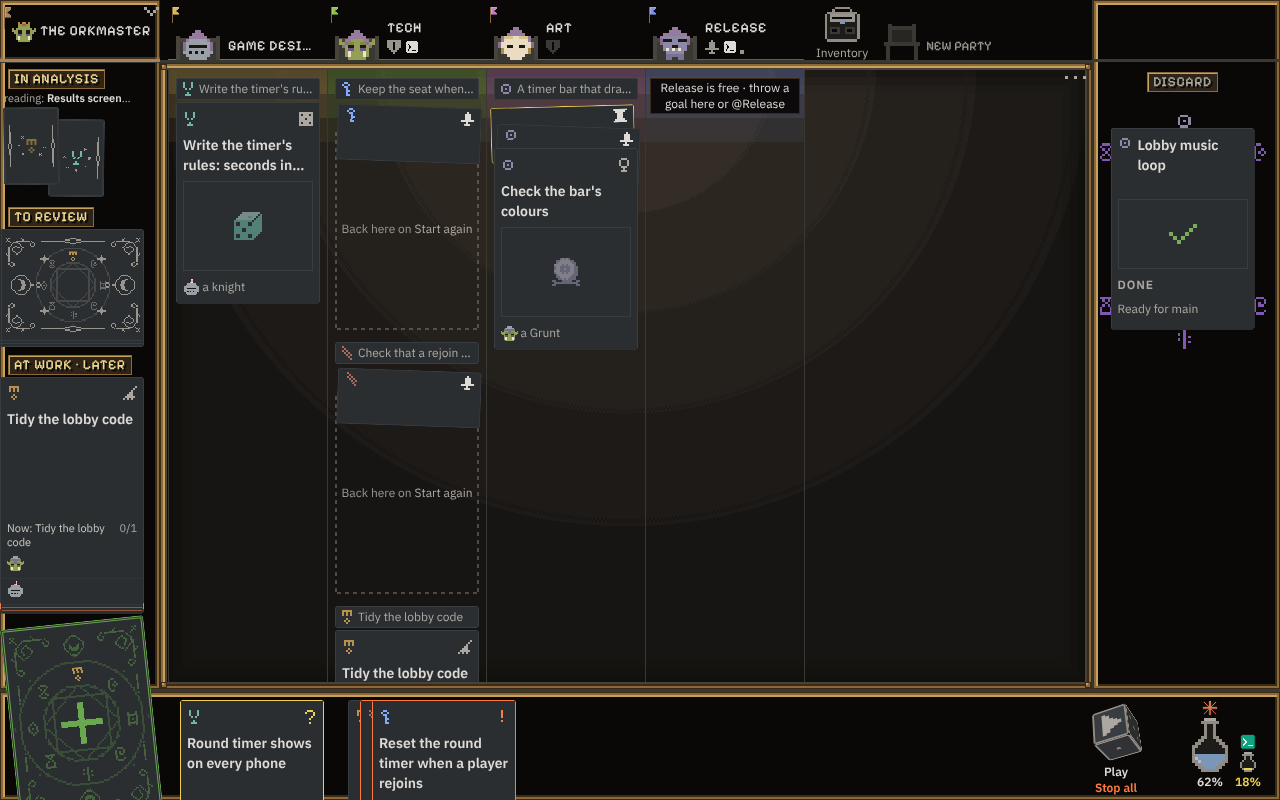
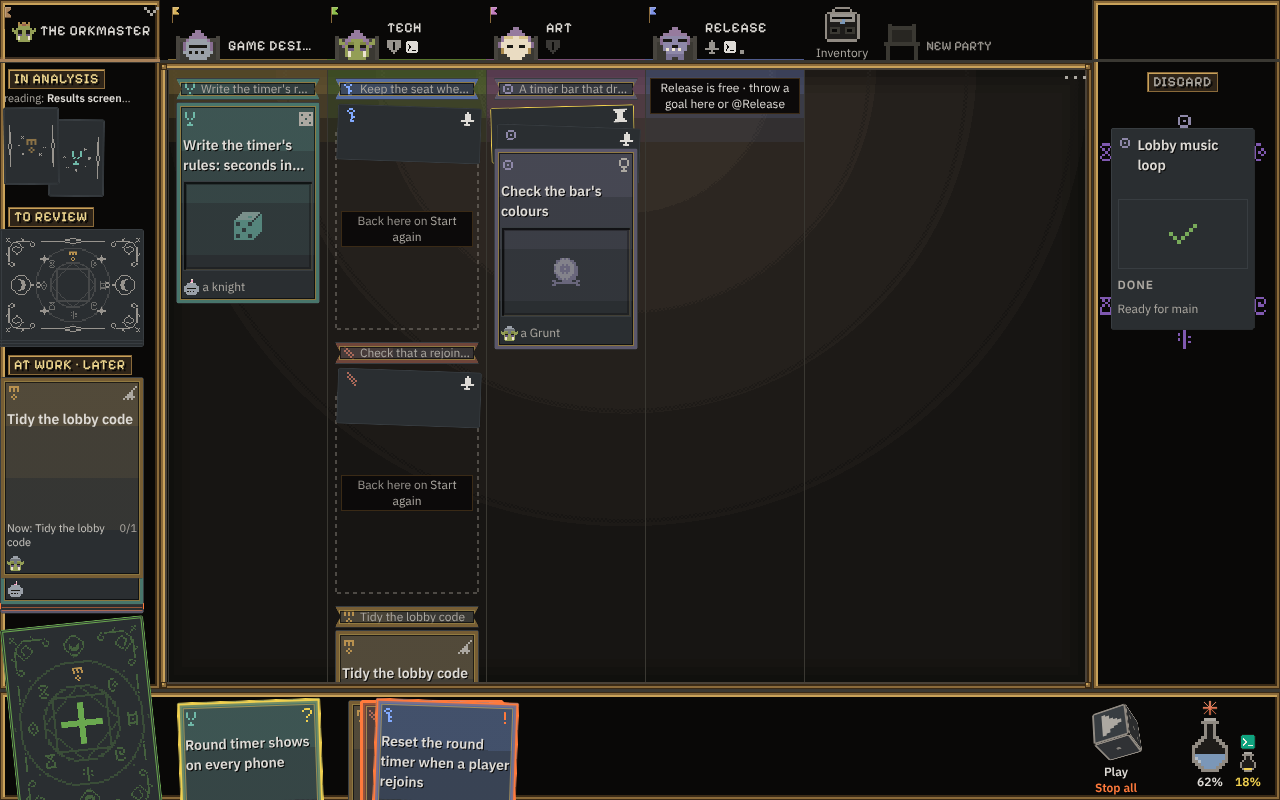
Spec 160 E: the System map's labels and the empty slots' words lie on flat plates
Claude-Session: https://claude.ai/code/session_01MCU3dpbKvLjgD4LJ6vm5TH

diff --git a/orkboard/gui/static/js/arena/systemarch.js b/orkboard/gui/static/js/arena/systemarch.js
@@ -100,14 +100,14 @@ function arrowsOf(host, links, scale = 1) {
 function Head({ c }) {
   const ways = c.ways_in || [];
   return html`<header class="arch-head">
-    <span class="arena-member__nm arch-name" title=${c.path === "." ? c.name : c.path}>${c.name}</span>
+    <span class="arena-member__nm arch-name ork-plate" title=${c.path === "." ? c.name : c.path}>${c.name}</span>
     <span class="arch-rule" aria-hidden="true"></span>
     ${((c.stack || []).length > 0 || c.unknown > 0) && html`<ul class="arch-stack" aria-label=${`${c.name}: its stack`}>
       ${(c.stack || []).map((s) => html`<li key=${s.name} class="arch-lib" data-role=${s.role} title=${`${s.name} · ${s.role}`}><span class="arch-lib__nm">${s.name}</span><span class="arch-lib__role">${s.role}</span></li>`)}
       ${c.unknown > 0 && html`<li class="arch-lib is-more" title=${`${c.unknown} more not on the list of known libraries`}><span class="arch-lib__nm">${moreWords(c.unknown)}</span></li>`}
     </ul>`}
-    ${ways.length > 0 && html`<div class="arch-ways"><span class="arch-ways__h">${WAYS_IN}</span>
-      <ul class="arch-ways__list">${ways.map((w, i) => html`<li key=${i} class="arch-way" data-kind=${w.kind} title=${w.path || w.name}><${Icon} name="arrow-right" />
+    ${ways.length > 0 && html`<div class="arch-ways"><span class="arch-ways__h ork-plate">${WAYS_IN}</span>
+      <ul class="arch-ways__list">${ways.map((w, i) => html`<li key=${i} class="arch-way ork-plate" data-kind=${w.kind} title=${w.path || w.name}><${Icon} name="arrow-right" />
         <b>${WAY_WORDS[w.kind] || w.kind}</b> <span class="arch-way__what">${w.kind === "script" || w.kind === "bin" ? w.name || base(w.path) : base(w.path)}</span></li>`)}</ul></div>`}
   </header>`;
 }
@@ -153,14 +153,14 @@ export function Architecture({ doc, order, step, pick, party }) {
         <div class="arch-lanes" style=${`height:${links.length * LANE + 8}px`} aria-hidden="true"></div>
         <div class="arch-cols">
           ${cols.map((col) => (col.kind === "shared" ? html`<section key=${`shared:${col.serves.join(",")}`} class="arch-col arch-shared" data-shared=${col.serves.join(",")} aria-label=${SHARED}>
-              <header class="arch-head"><span class="arena-member__nm arch-name">${SHARED}</span><span class="arch-rule" aria-hidden="true"></span>
-                <span class="arena-cap arch-serves">${col.serves.map((p) => names[p] || p).join(" · ")}</span></header>
+              <header class="arch-head"><span class="arena-member__nm arch-name ork-plate">${SHARED}</span><span class="arch-rule" aria-hidden="true"></span>
+                <span class="arena-cap arch-serves ork-plate">${col.serves.map((p) => names[p] || p).join(" · ")}</span></header>
               <div class="arch-layer__parts">${col.parts.map((p) => card(p, SHARED))}</div>
             </section>`
             : html`<section key=${col.c.path} class=${cls("arch-col", { "is-bare": !col.rows.length })} data-container=${col.c.path} aria-label=${col.c.name}>
               <${Head} c=${col.c} />
               ${col.rows.length > 0 && html`<div class="arch-layers">${col.rows.map((r, i) => html`<div key=${i} class=${cls("arch-layer", { "is-gone": !!r.gone })} data-role=${r.role || undefined}>
-                <span class="arch-layer__nm">${ROLE_WORDS[r.role] || ""}</span>
+                <span class="arch-layer__nm ork-plate">${ROLE_WORDS[r.role] || ""}</span>
                 <div class="arch-layer__parts">${r.parts.map((p) => card(p, col.c.name))}</div></div>`)}</div>`}
             </section>`))}
         </div>

diff --git a/orkboard/gui/static/js/arena/systemmap.css b/orkboard/gui/static/js/arena/systemmap.css
@@ -94,7 +94,7 @@
 .arch-col { flex: none; display: flex; flex-direction: column; gap: var(--ork-6); min-width: 208px; }
 .arch-col.is-bare { min-width: 160px; }
 .arch-head { display: flex; flex-direction: column; gap: var(--ork-3); }
-.arch-name { max-width: 100%; text-align: center; color: var(--ork-ink); }
+.arch-name { align-self: center; max-width: 100%; text-align: center; color: var(--ork-ink); }   /* a label on orkUI's flat plate (§275.2), not on the felt's steps */
 .arch-rule { height: 2px; margin-top: calc(-1 * var(--ork-2)); background: var(--ork-edge); }
 .arch-stack, .arch-ways { width: 0; min-width: 100%; }
 /* the column is as wide as its rows (208 px at least): the stack and the ways in wrap inside it */
@@ -106,6 +106,7 @@
 .arch-lib.is-more { justify-content: center; border-style: dashed; background: none; }
 .arch-lib.is-more .arch-lib__nm { font-weight: 400; color: var(--ork-ink-muted); }
 .arch-ways { display: flex; flex-direction: column; gap: var(--ork-1); }
+.arch-ways__h { align-self: flex-start; }
 .arch-ways__h, .arch-layer__nm { font: var(--ork-type-label); text-transform: var(--ork-type-label-case); letter-spacing: var(--ork-type-label-track); color: var(--ork-ink-muted); }
 .arch-ways__list { list-style: none; margin: 0; padding: 0; display: flex; flex-wrap: wrap; gap: var(--ork-1) var(--ork-4); font: var(--ork-type-caption); color: var(--ork-ink); }
 .arch-way { display: inline-flex; align-items: center; gap: var(--ork-1); white-space: nowrap; }
@@ -114,11 +115,11 @@
 .arch-way__what { color: var(--ork-ink-muted); }
 .arch-layers { display: flex; flex-direction: column; gap: var(--ork-6); }
 .arch-layer { display: flex; align-items: flex-start; gap: var(--ork-4); }
-.arch-layer__nm { flex: none; width: 76px; padding-top: var(--ork-2); }
+.arch-layer__nm { flex: none; width: 76px; margin-top: var(--ork-2); padding: var(--ork-1) var(--ork-2); }
 .arch-layer__parts { display: flex; flex-wrap: wrap; gap: var(--ork-6) var(--ork-5); max-width: calc(3 * 128px + 2 * var(--ork-5)); }
 .arch-shared { min-width: 128px; }
 .arch-shared .arch-layer__parts { flex-direction: column; align-items: center; }
-.arch-serves { text-align: center; }
+.arch-serves { align-self: center; text-align: center; }
 .arch .sys-stk { flex: none; }
 .arch.is-small .sys-stk { width: 96px; max-width: 96px; }
 /* a crowded table: the smaller card, 96 × 134 (5:7) */

diff --git a/orkboard/gui/static/js/table/flight.css b/orkboard/gui/static/js/table/flight.css
@@ -1,6 +1,7 @@
 /* A failure thrown to the hand leaves its place in the lane (docs/specs/128 C.2, decisions §206.7; table/flight.js `ThrownPlace`): orkUI's `.ork-card-place` (the card's outline in dashes, 5 : 7) as wide as the card was and as high (the page sets
    the height it measured), its words in the caption's face, *Try again* the quieter ink's. Layout only: every colour, face and corner is orkUI's. */
 .table-thrown { display: grid; place-items: center; width: 100%; flex: none; padding: var(--ork-3); color: var(--ork-ink-faint); font: var(--ork-type-caption); text-align: center; }
+.table-thrown__words { color: var(--ork-ink-faint); }   /* on orkUI's flat plate (§275.2) */
 .table-thrown i { font-style: normal; color: var(--ork-ink-muted); }
 
 /* A card that turns on its way (turnfly.js; spec 147 D.2 and E, decisions §251.7, §70): orkUI's `.ork-turn` laid at the box where the card lands, its back the Orkmaster's hand's back (the small seal and the goal's rune in the middle, column.css `.col-fan__seal`), its face a copy of the card.

diff --git a/orkboard/gui/static/js/arena/systemmap.js b/orkboard/gui/static/js/arena/systemmap.js
@@ -358,7 +358,7 @@ export function Modules({ doc, order, step, pick, party }) {
     <div class="sys-scroll">
       <div class="sys-table" ref=${host} style=${`--cols:repeat(${cols.length}, 128px)`} data-rows=${rows}>
         ${cols.map(({ col, ci }) => html`<div key=${`h${ci}`} class="sys-area" style=${`grid-column:${ci + 1}`} data-area=${col.name}>
-          <span class="arena-member__nm sys-area__nm" title=${col.name}>${col.name}</span>
+          <span class="arena-member__nm sys-area__nm ork-plate" title=${col.name}>${col.name}</span>
           ${col.stack.length > 0 && opened.has(ci) && html`<button type="button" class="ork-btn quiet sys-area__fold" aria-expanded="true" onClick=${() => toggle(ci)}><${Chev} dir="up" /> ×${col.stack.length}</button>`}
           <span class="sys-area__rule" aria-hidden="true"></span></div>`)}
         ${cols.flatMap(({ col, ci, cards }) => cards.map(({ c, slot, many }) => {

diff --git a/orkboard/gui/static/js/table/flight.js b/orkboard/gui/static/js/table/flight.js
@@ -116,5 +116,5 @@ export function useThrown(stops, ready = true) {
 /** A lane's place for a failure that lies in the hand: orkUI's card outline where the card lay, its height kept, *Back here on Try again*. */
 export function ThrownPlace({ n, t, h = 0 }) {
   return html`<div class="ork-card-place table-thrown" data-goal=${n.slug} data-task=${t.id} data-about=${`idea:${n.slug} task:${n.slug}/${t.id}`} data-place="thrown" style=${h ? `height:${h}px` : undefined} aria-label=${`${t.title}: back here when you try again`}>
-    <span>Back here on <i>Start again</i></span></div>`;
+    <span class="table-thrown__words ork-plate">Back here on <i>Start again</i></span></div>`;
 }

diff --git a/tests/test_table_look_browser.py b/tests/test_table_look_browser.py
@@ -100,3 +100,48 @@ def test_the_headings_are_plaques_and_an_empty_lane_says_whose_it_is_on_a_plate(
     lane = pg.locator(".table-lane[data-free], .table-lane:has(.table-lane__free)").first
     assert lane.get_attribute("data-race") in {"ork", "knight", "elf", "undead", "goblin", "gnome"}
     shot(pg, "orkmaster")
+
+
+PLATES = ("--ork-plate", *[f"--ork-plate-{r}" for r in ("ork", "knight", "elf", "undead", "goblin", "gnome", "orkmaster")])
+LABELS = ".arch-name, .arch-layer__nm, .arch-ways__h, .arch-way, .arch-serves, .sys-area__nm"
+
+
+def test_on_techs_tab_every_label_of_the_system_map_lies_on_a_flat_plate(gui):
+    pg = open_window(gui)
+    pg.locator('.table-tab[data-tab="tech"]').click()
+    pg.locator(".arch-name").first.wait_for(timeout=WAIT_MS)
+    pg.wait_for_timeout(800)
+    plates = [pg.evaluate(BG, n) for n in PLATES]
+    labels = pg.locator(LABELS)
+    seen = set()
+    for i in range(labels.count()):
+        el = labels.nth(i)
+        if not el.is_visible():
+            continue
+        text = el.inner_text().strip()
+        bg = el.evaluate("(e) => getComputedStyle(e).backgroundColor")
+        assert bg not in ("rgba(0, 0, 0, 0)", "transparent") and bg in plates, (text, bg)
+        seen.add(text.lower())
+    assert {"its doors", "its face", "its data"} <= seen, seen
+    assert any(n.endswith("/") for n in seen), seen                      # the containers' names (server/, client/)
+    shot(pg, "tech-system")
+
+
+def test_an_empty_slot_a_failure_leaves_has_its_words_on_a_flat_plate(gui):
+    from tests.test_thrown_browser import HandHost, fail, open_page, working
+
+    host = HandHost()
+    working(host)
+    pg, log = open_page(gui, host)
+    try:
+        pg.wait_for_timeout(300)
+        fail(host)
+        words = pg.locator('.table-thrown[data-task="w1"] .ork-plate')
+        words.wait_for(timeout=WAIT_MS)
+        assert words.inner_text().strip() == "Back here on Start again"
+        plates = [pg.evaluate(BG, n) for n in PLATES]
+        bg = words.evaluate("(e) => getComputedStyle(e).backgroundColor")
+        assert bg not in ("rgba(0, 0, 0, 0)", "transparent") and bg in plates, bg
+    finally:
+        pg.close()
+    assert not log, "\n".join(log)
